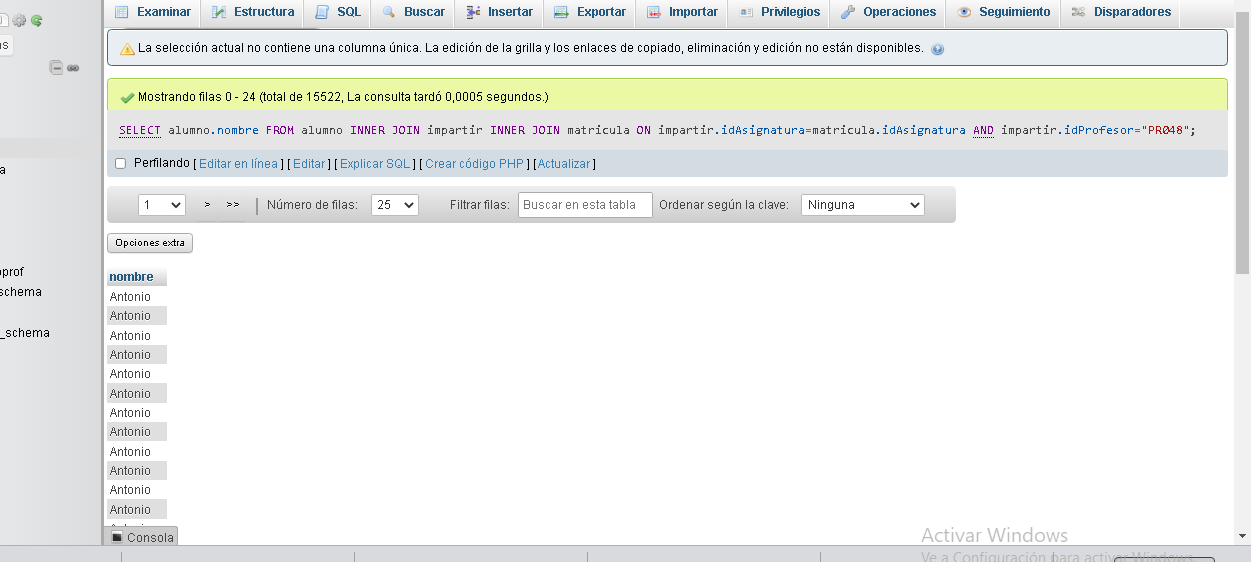
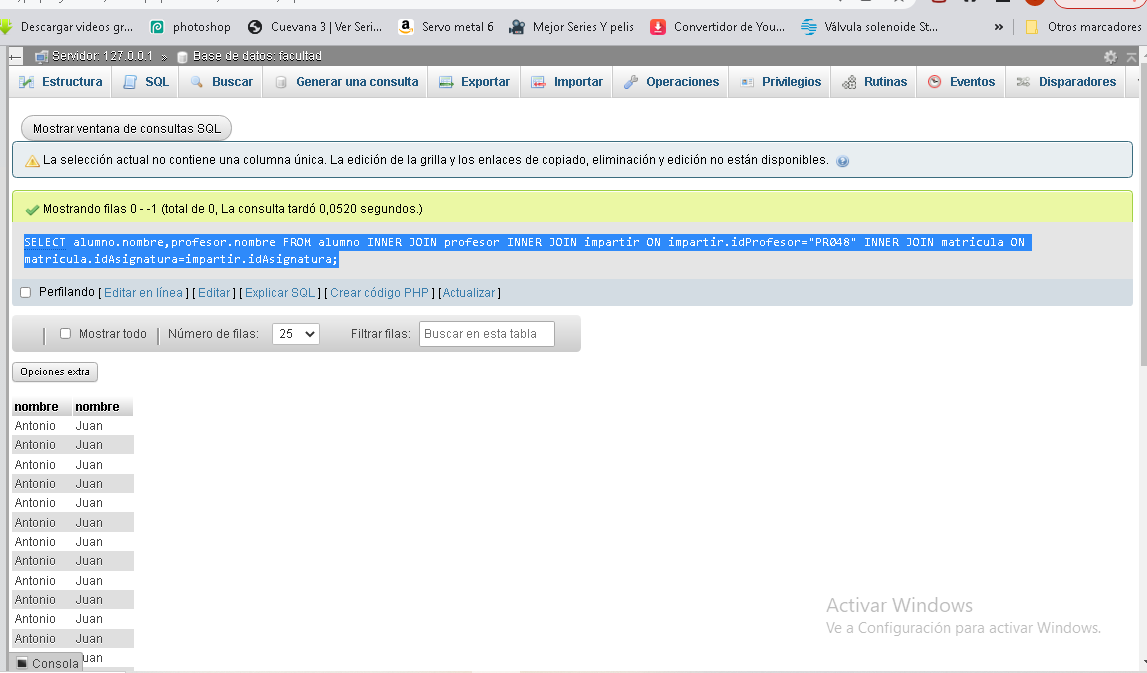
Add files via upload

diff --git a/Proyecto final/index.html b/Proyecto final/index.html
@@ -101,7 +101,7 @@
 
   <div class="card">
     <div class="cent">
-      <h1>8- SELECT alumno.nombre FROM alumno INNER JOIN impartir INNER JOIN matricula on impartir.idAsignatura=asignatura.idAsignatura and impartir.idProfesor="PR0048";
+      <h1>8- SELECT alumno.nombre,profesor.nombre FROM alumno INNER JOIN profesor INNER JOIN impartir ON impartir.idProfesor="PR048" INNER JOIN matricula on impartir.idAsignatura=matricula.idAsignatura;
       </h1>
     </div>
     <div class="card-body">
@@ -112,12 +112,8 @@
 
   <div class="card">
     <div class="cent">
-      <h1>9- FROM curso
-        INNER JOIN profesor
-        INNER JOIN asignatura
-        ON curso.idCurso=asignatura.curso
-        INNER JOIN impartir
-        ON asignatura.idAsignatura=impartir.idAsignatura;
+      <h1>9-SELECT curso.nombreDescriptivo AS "curso", asignatura.nombre AS "asignatura", profesor.nombre AS "profesor" FROM curso INNER JOIN asignatura ON asignatura.curso=curso.idCurso INNER JOIN profesor ON asignatura.coordinador=profesor.idProfesor;
+
       </h1>
     </div>
     <div class="card-body">
@@ -138,7 +134,7 @@
       </h1>
     </div>
     <div class="card-body">
-      <p class="card-text">Mostrar todos los alumonos con asignatura, profesor y curso</p>
+      <p class="card-text">Mostrar todos los alumnos con asignatura, profesor y curso</p>
       <img src="imgs/CAP_TODOTODOTODO.PNG" class="card-img-top" alt="...">
     </div>
   </div>
